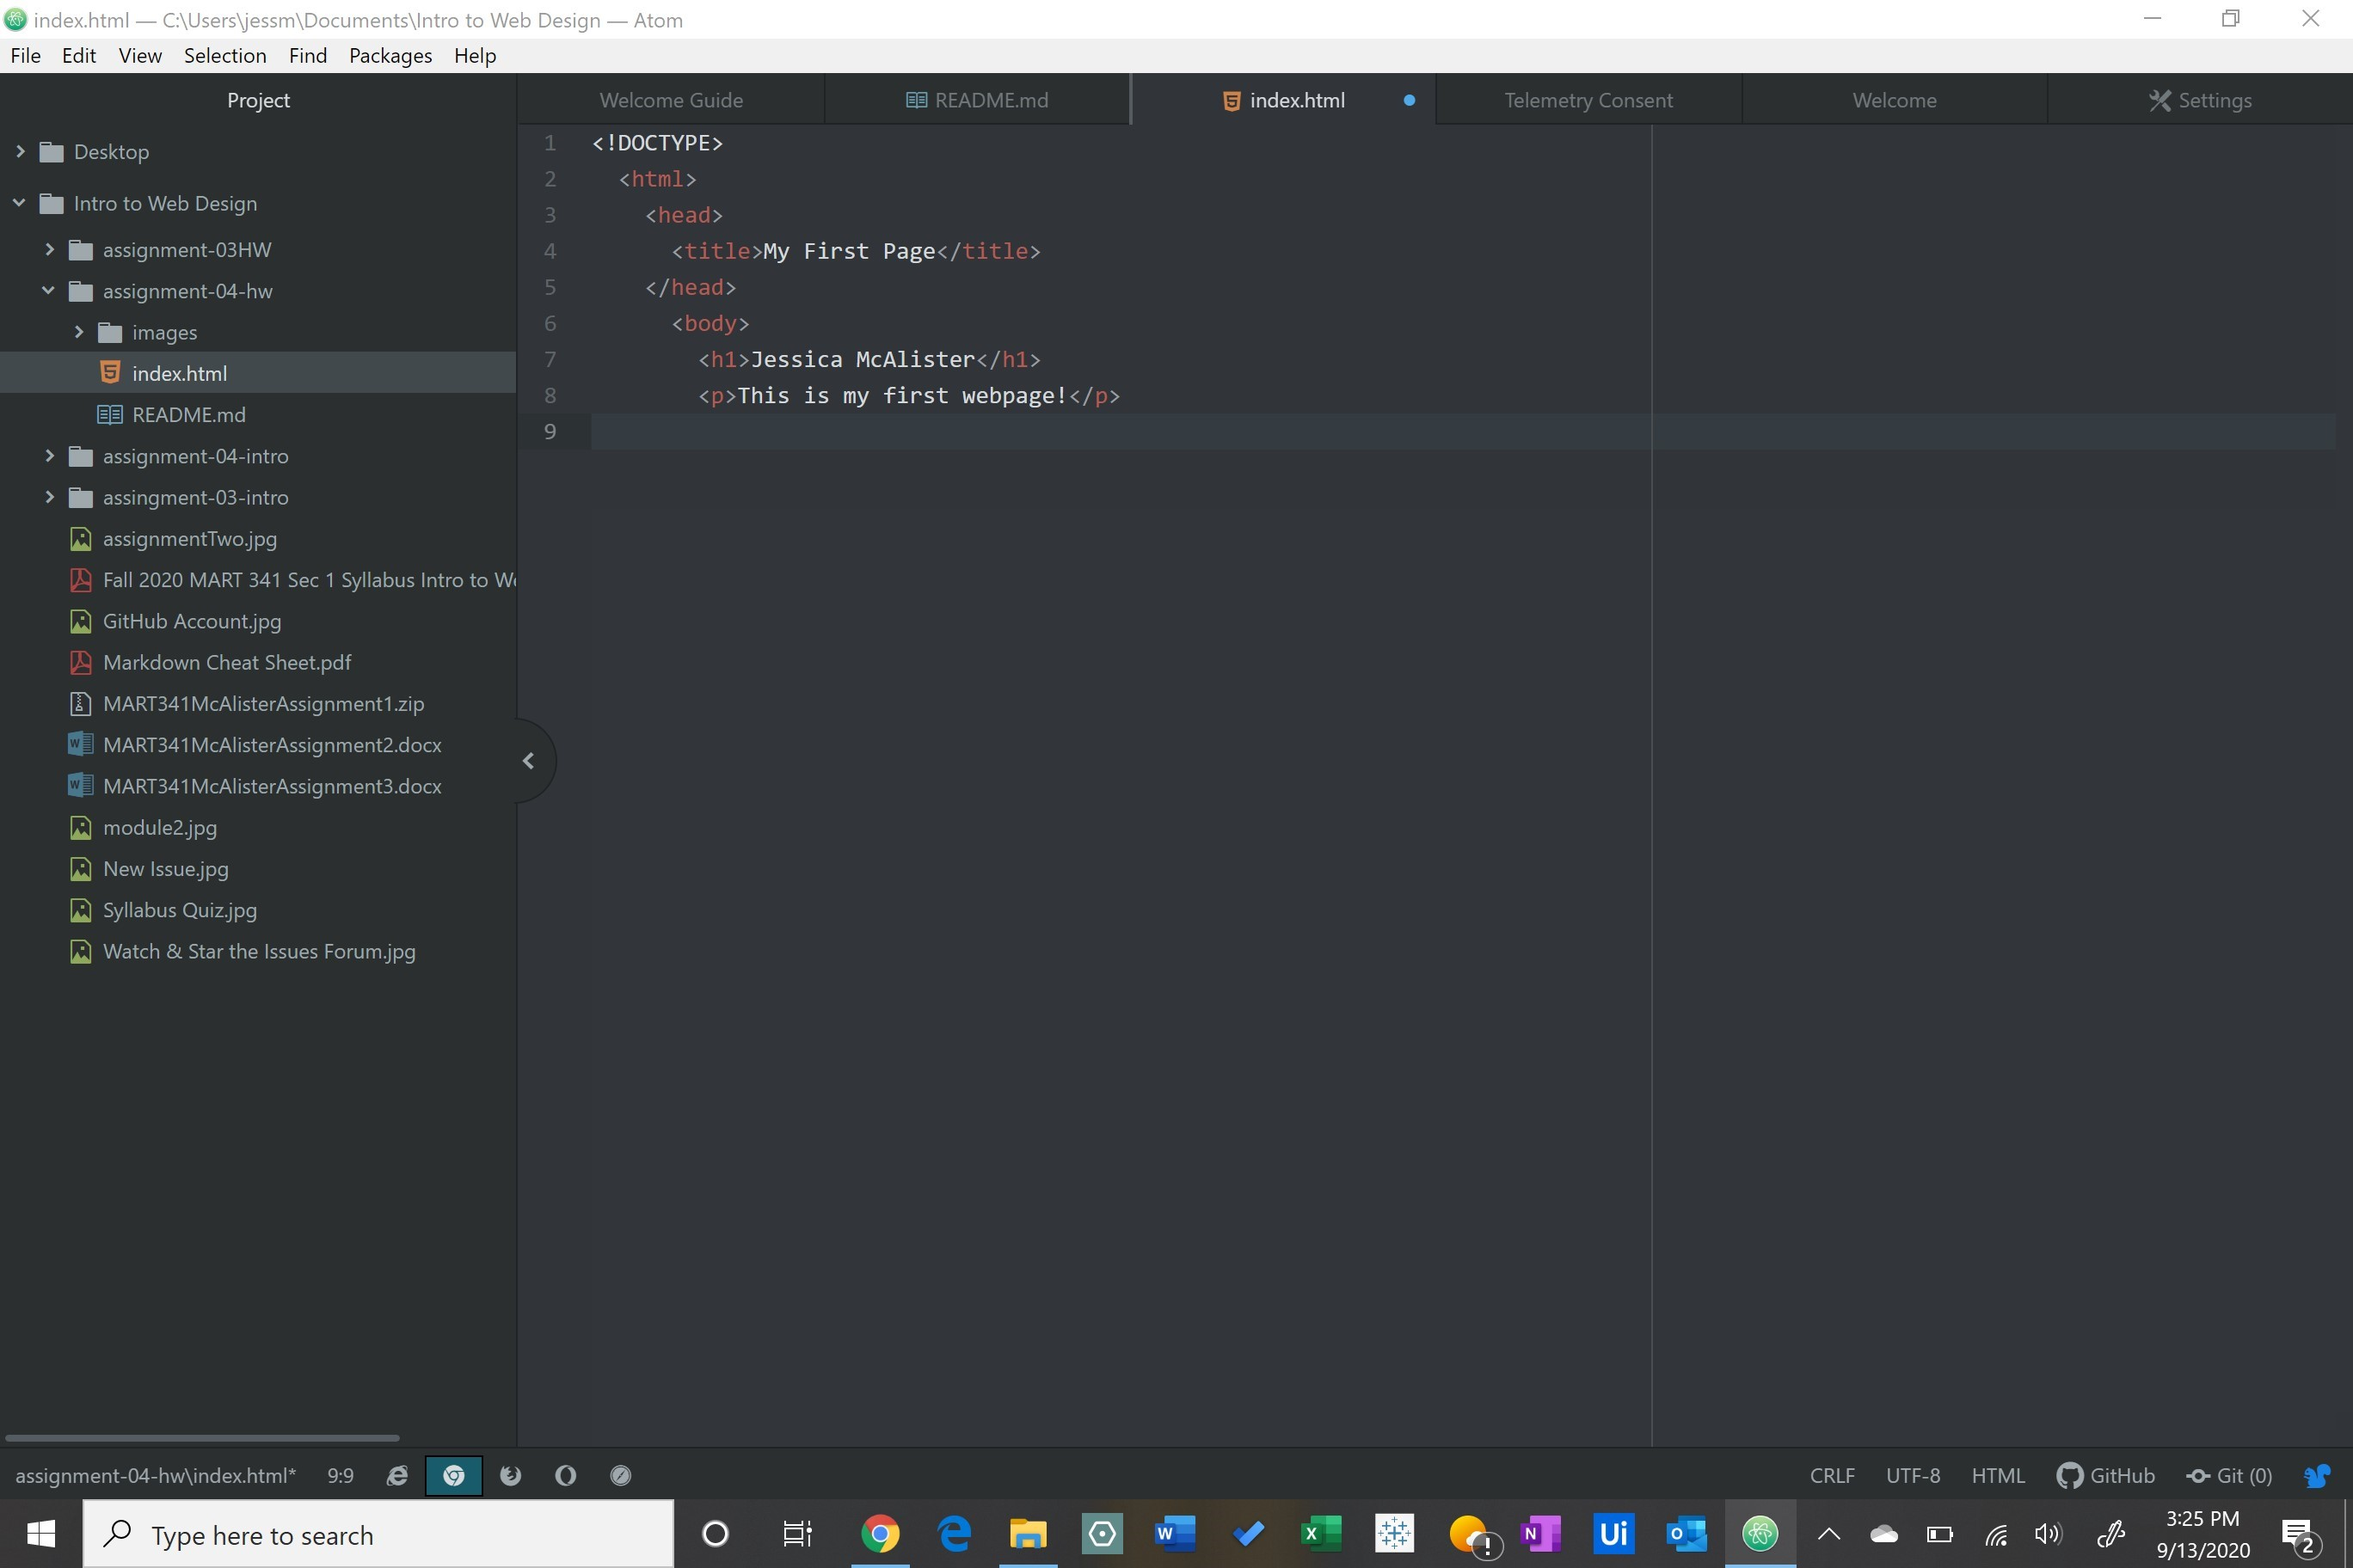
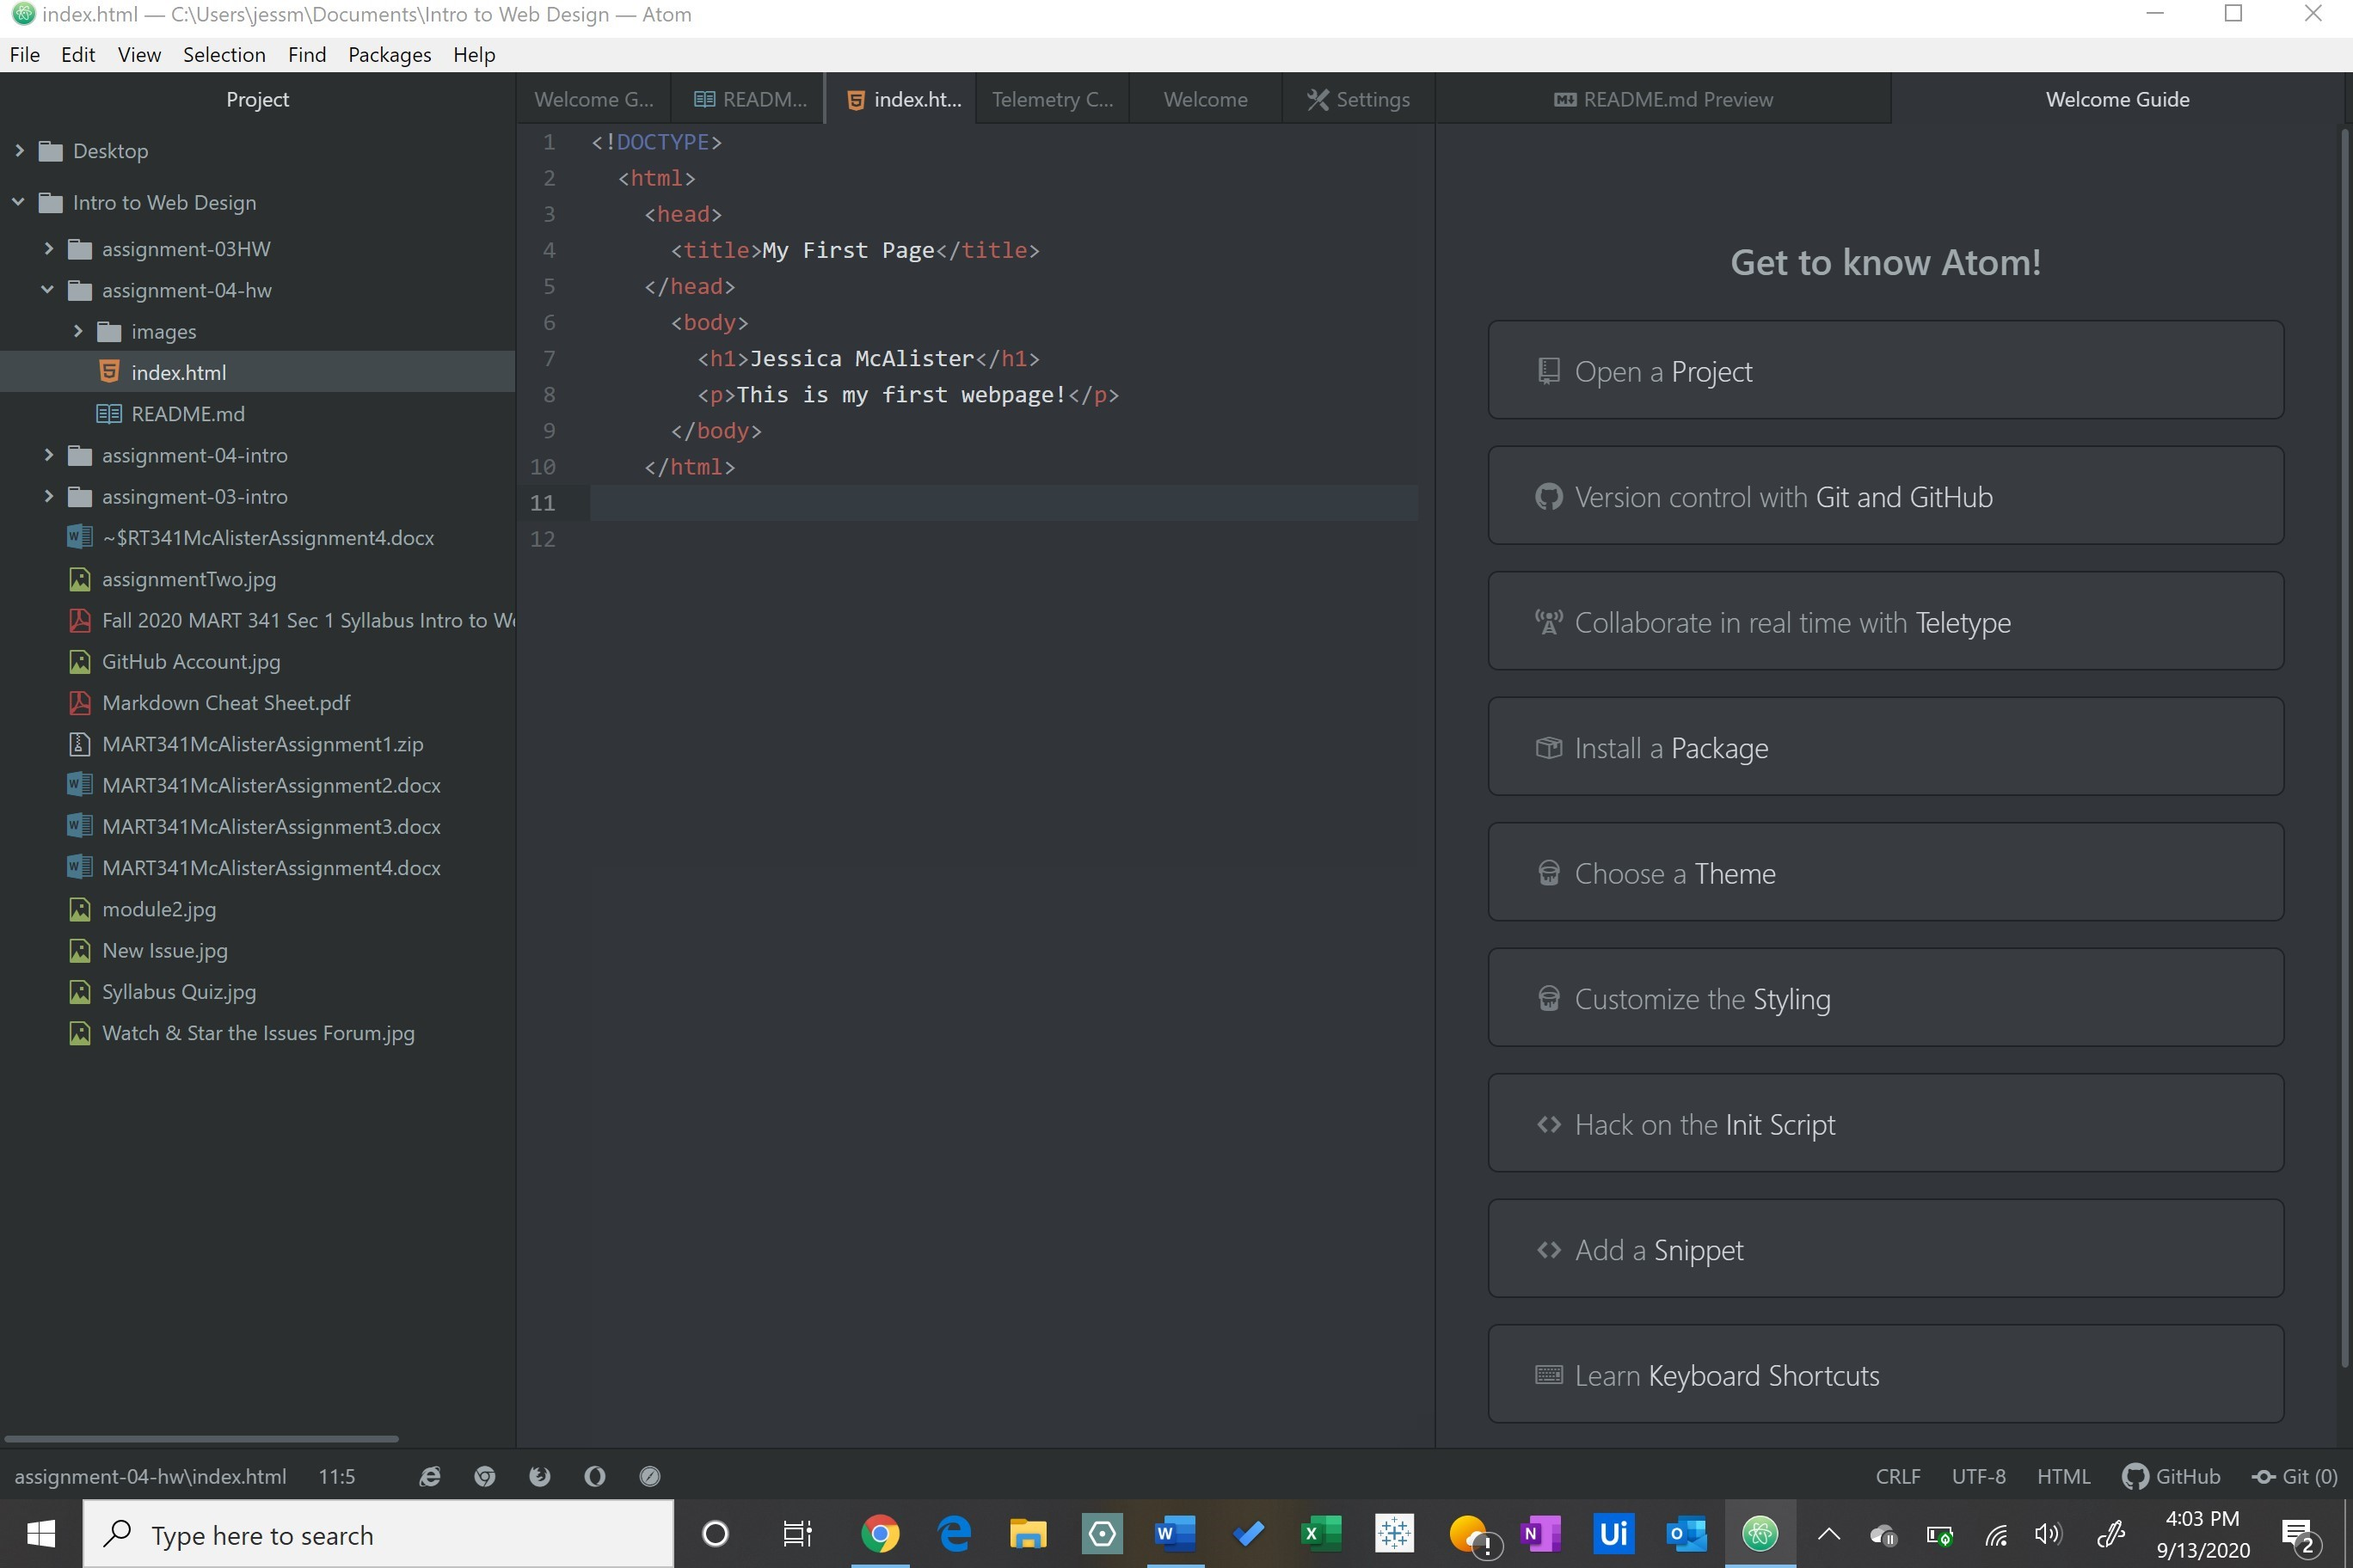
This is the improved code for Homework 4!

diff --git a/assignment-04-hw/index.html b/assignment-04-hw/index.html
@@ -6,4 +6,6 @@
       <body>
         <h1>Jessica McAlister</h1>
         <p>This is my first webpage!</p>
-        
+      </body>
+    </html>
+    
